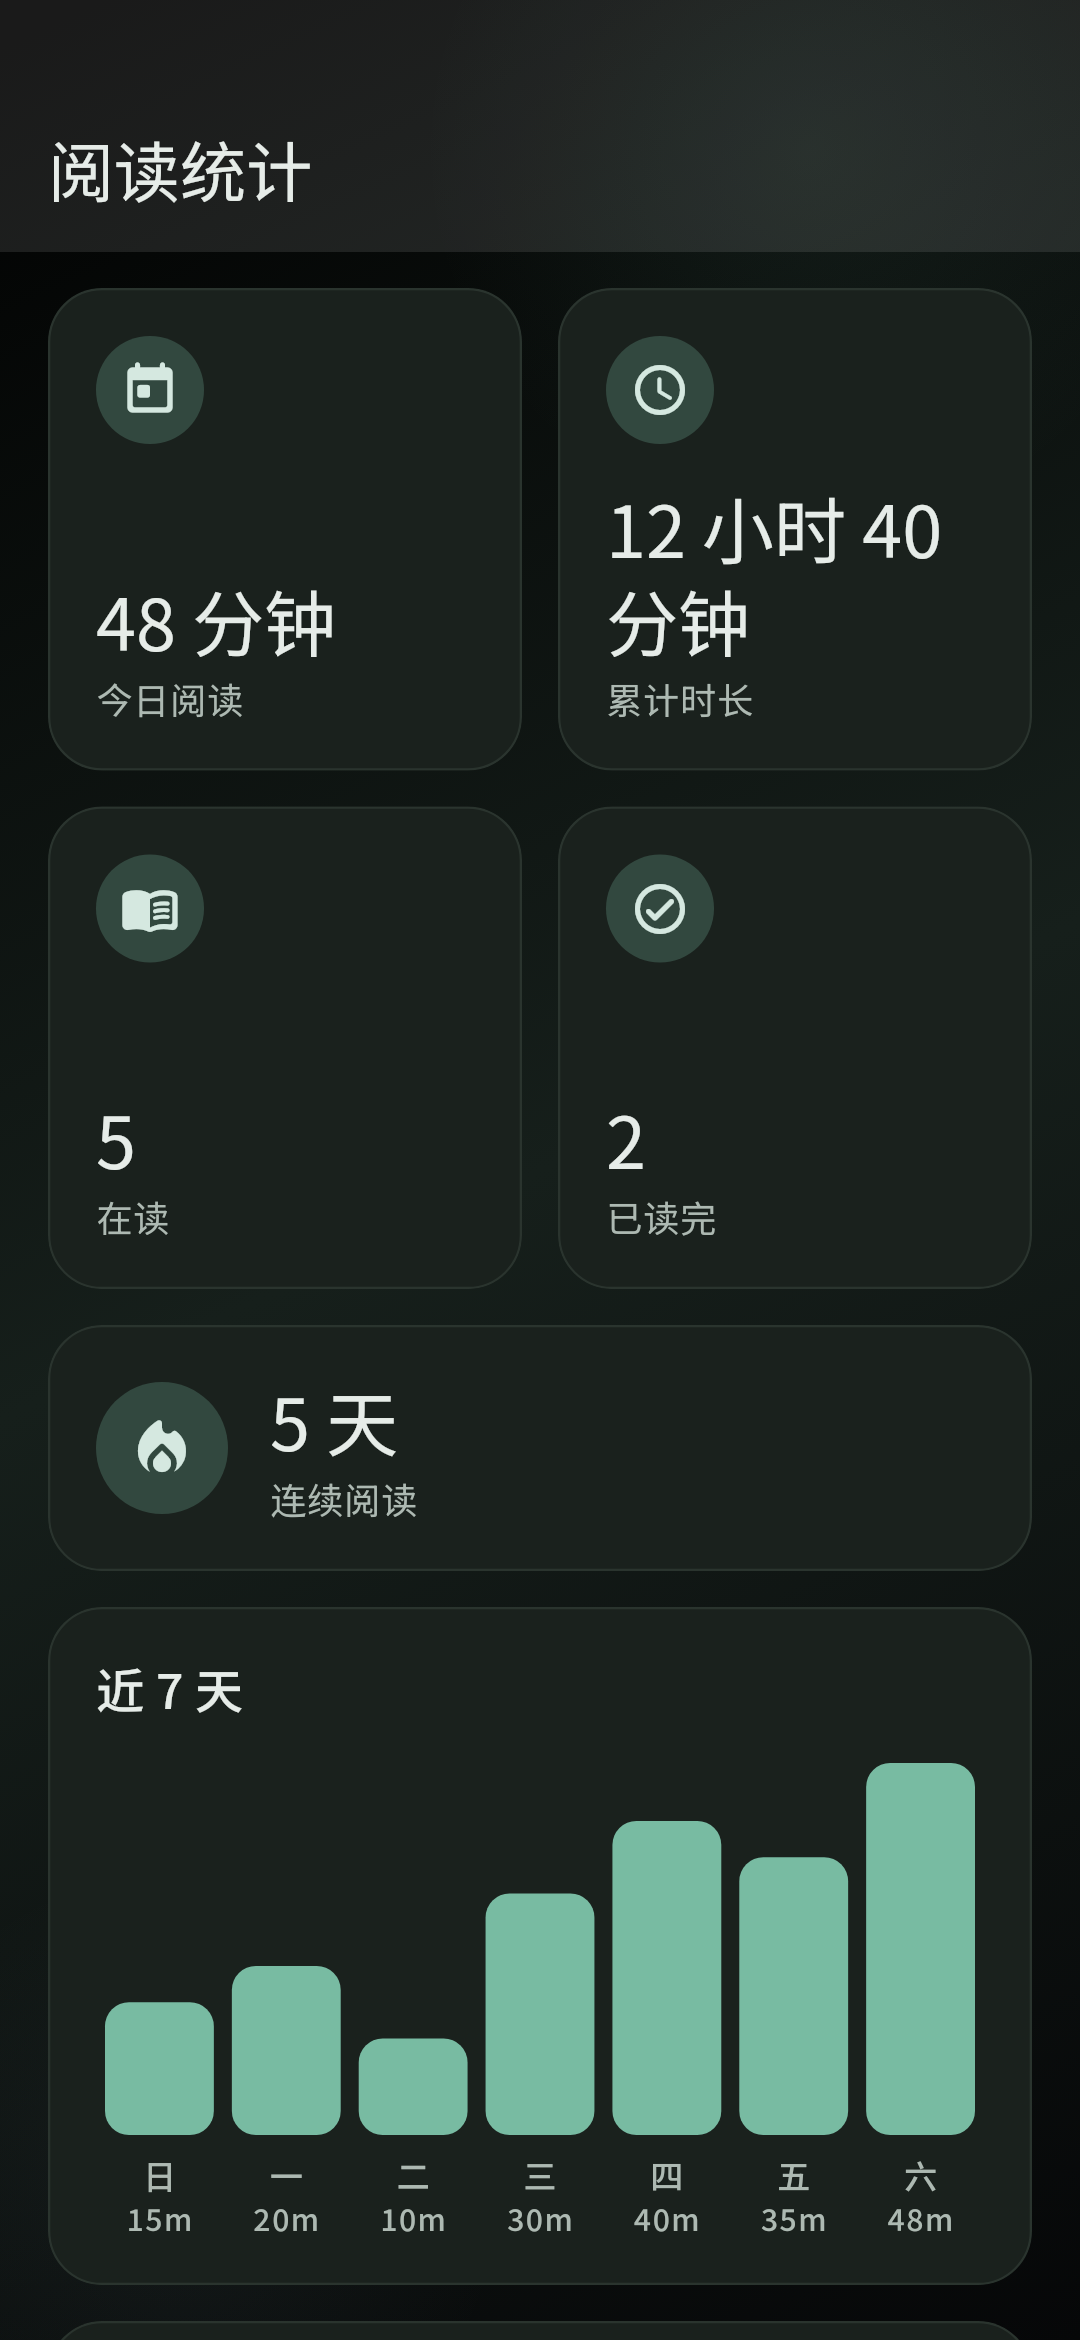
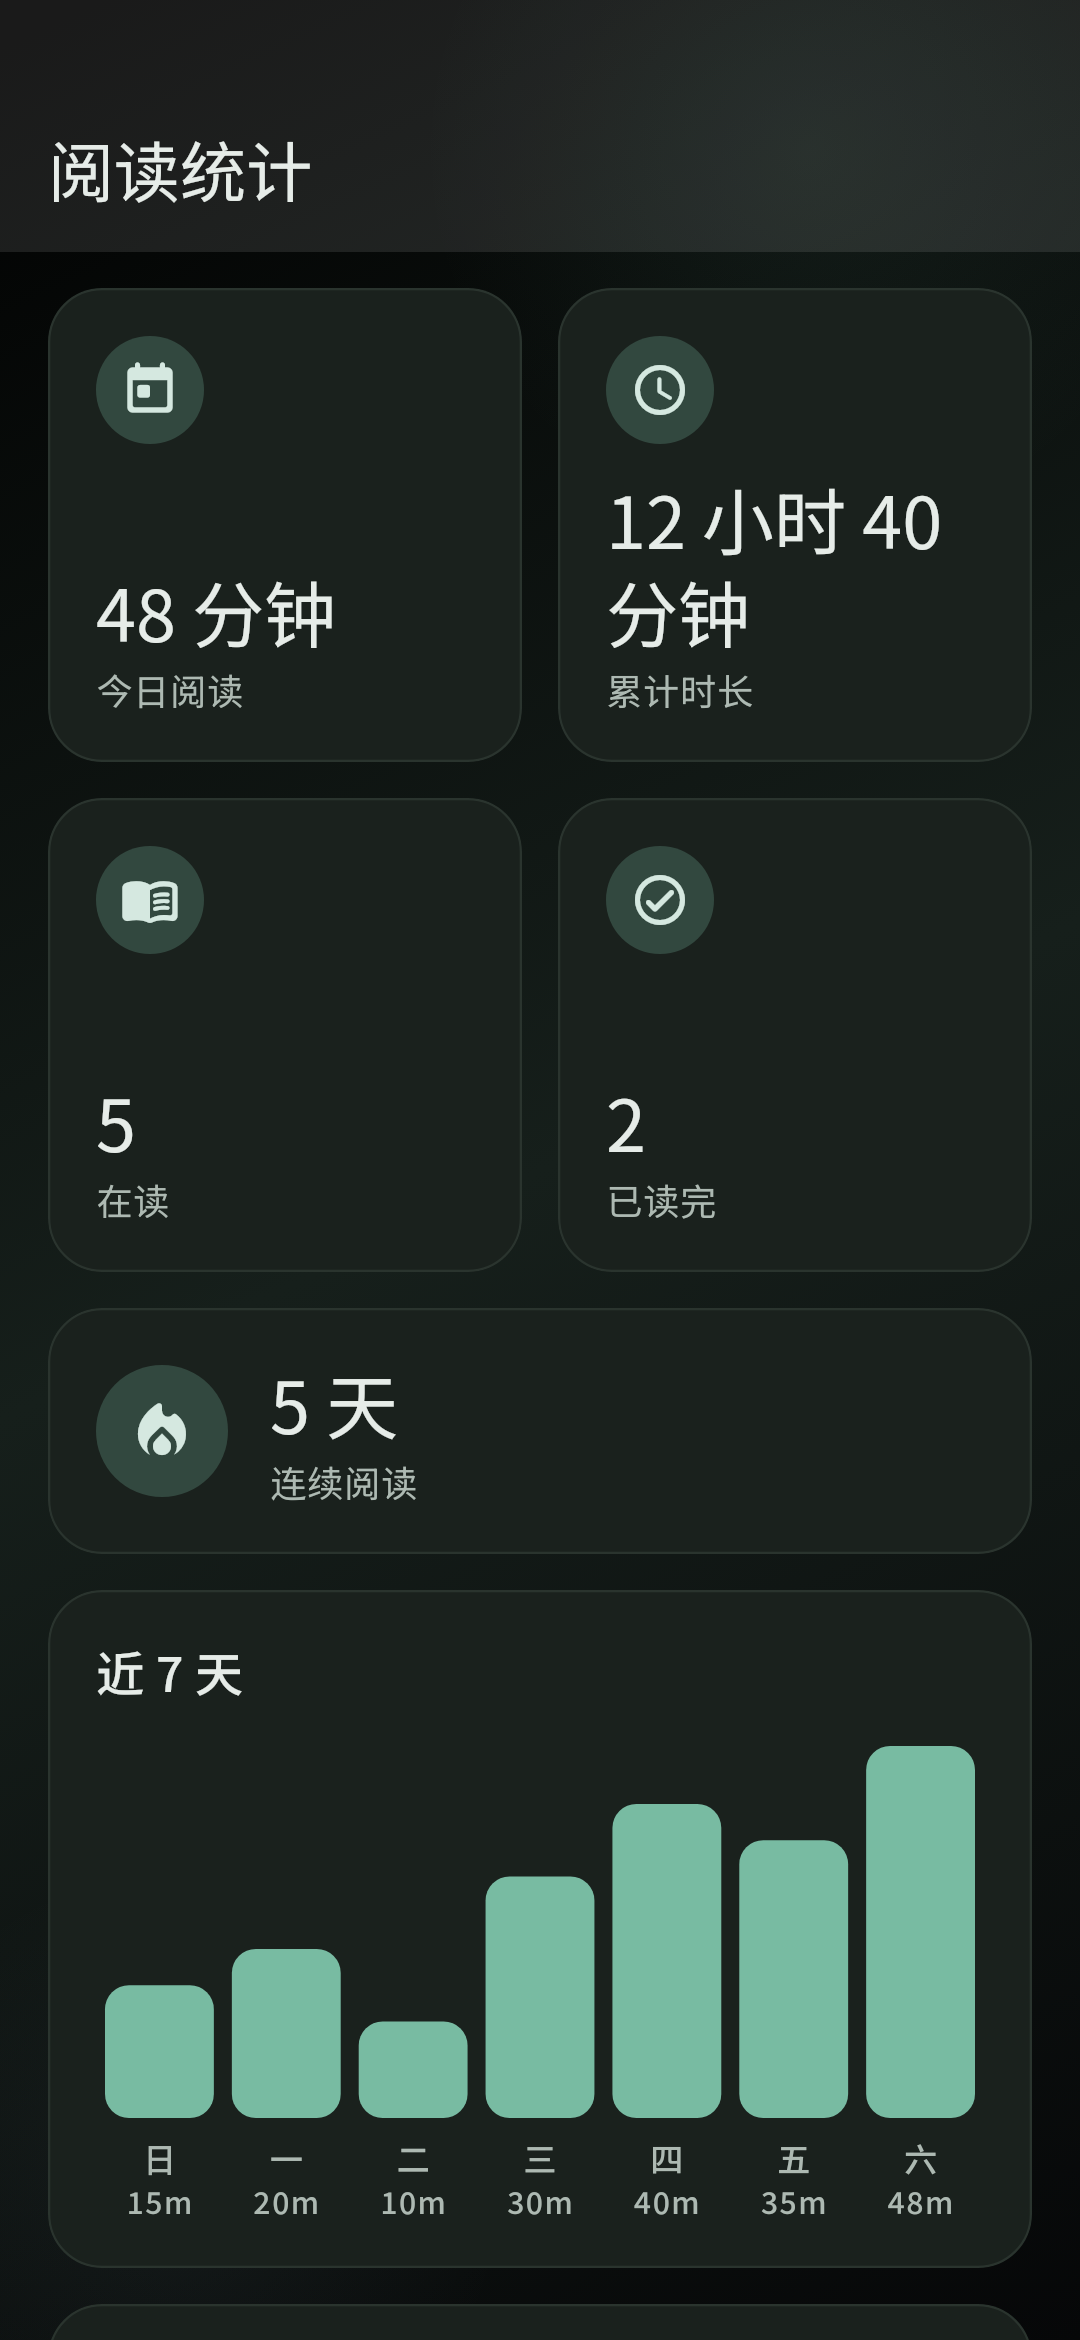
feat: Explore Project Structure

diff --git a/lib/presentation/screens/stats/stats_screen.dart b/lib/presentation/screens/stats/stats_screen.dart
@@ -8,20 +8,6 @@ import '../../widgets/glass_scaffold_bg.dart';
 class StatsScreen extends ConsumerWidget {
   const StatsScreen({super.key});
 
-  /// Reserve icon + two lines of value + label so all four tiles match, even
-  /// when「12 小时 40 分钟」wraps while「5」does not.
-  double _statMinHeight(BuildContext context) {
-    final scaler = MediaQuery.textScalerOf(context);
-    final text = Theme.of(context).textTheme;
-    final value = text.headlineSmall;
-    final label = text.bodySmall;
-    return 36 +
-        12 +
-        scaler.scale(value?.fontSize ?? 24) * (value?.height ?? 1.28) * 2 +
-        2 +
-        scaler.scale(label?.fontSize ?? 12) * (label?.height ?? 1.45);
-  }
-
   String _fmt(int seconds, {required bool isZh}) {
     if (seconds < 60) return isZh ? '$seconds 秒' : '${seconds}s';
     final m = seconds ~/ 60;
@@ -49,7 +35,7 @@ class StatsScreen extends ConsumerWidget {
             return ListView(
               padding: const EdgeInsets.fromLTRB(16, 12, 16, 32),
               children: [
-                _statRow(
+                _statGrid([
                   _statCard(
                     context,
                     strings.todayReading,
@@ -62,9 +48,6 @@ class StatsScreen extends ConsumerWidget {
                     _fmt(s.totalSeconds, isZh: isZh),
                     Icons.schedule_rounded,
                   ),
-                ),
-                const SizedBox(height: 12),
-                _statRow(
                   _statCard(
                     context,
                     strings.booksInProgress,
@@ -77,7 +60,7 @@ class StatsScreen extends ConsumerWidget {
                     '${s.booksFinished}',
                     Icons.check_circle_outline_rounded,
                   ),
-                ),
+                ]),
                 const SizedBox(height: 12),
                 SolidCard(
                   padding: const EdgeInsets.all(16),
@@ -197,42 +180,71 @@ class StatsScreen extends ConsumerWidget {
     final theme = Theme.of(context);
     return SolidCard(
       padding: const EdgeInsets.all(16),
-      child: ConstrainedBox(
-        constraints: BoxConstraints(minHeight: _statMinHeight(context)),
-        child: Column(
-          crossAxisAlignment: CrossAxisAlignment.start,
-          children: [
-            _StatMedallion(icon: icon),
-            const Spacer(),
-            Text(
-              value,
-              style: theme.textTheme.headlineSmall,
-              maxLines: 2,
-            ),
-            const SizedBox(height: 2),
-            Text(
-              label,
-              style: theme.textTheme.bodySmall?.copyWith(
-                color: theme.colorScheme.onSurfaceVariant,
+      child: LayoutBuilder(
+        builder: (context, constraints) {
+          return Column(
+            crossAxisAlignment: CrossAxisAlignment.start,
+            children: [
+              _StatMedallion(icon: icon),
+              const SizedBox(height: 8),
+              Expanded(
+                child: Align(
+                  alignment: Alignment.bottomLeft,
+                  child: FittedBox(
+                    fit: BoxFit.scaleDown,
+                    alignment: Alignment.bottomLeft,
+                    child: SizedBox(
+                      width: constraints.maxWidth,
+                      child: Text(
+                        value,
+                        style: theme.textTheme.headlineSmall,
+                        maxLines: 2,
+                      ),
+                    ),
+                  ),
+                ),
               ),
-            ),
-          ],
-        ),
+              const SizedBox(height: 2),
+              Text(
+                label,
+                maxLines: 1,
+                overflow: TextOverflow.ellipsis,
+                style: theme.textTheme.bodySmall?.copyWith(
+                  color: theme.colorScheme.onSurfaceVariant,
+                ),
+              ),
+            ],
+          );
+        },
       ),
     );
   }
 
-  /// Side-by-side tiles must share one height, not centre against each other.
-  Widget _statRow(Widget left, Widget right) {
-    return IntrinsicHeight(
-      child: Row(
-        crossAxisAlignment: CrossAxisAlignment.stretch,
-        children: [
-          Expanded(child: left),
-          const SizedBox(width: 12),
-          Expanded(child: right),
-        ],
-      ),
+  /// Square tiles: 2×2 on phones, a single 4-up row on wide windows. Keeping
+  /// the height tied to the width stops tiles from stretching into long bars.
+  Widget _statGrid(List<Widget> tiles) {
+    return LayoutBuilder(
+      builder: (context, constraints) {
+        const gap = 12.0;
+        final columns = constraints.maxWidth >= 700 ? 4 : 2;
+        final rawSide =
+            (constraints.maxWidth - gap * (columns - 1)) / columns;
+        final side = rawSide > 220 ? 220.0 : rawSide;
+        final gridWidth = side * columns + gap * (columns - 1);
+        return Center(
+          child: SizedBox(
+            width: gridWidth,
+            child: Wrap(
+              spacing: gap,
+              runSpacing: gap,
+              children: [
+                for (final tile in tiles)
+                  SizedBox.square(dimension: side, child: tile),
+              ],
+            ),
+          ),
+        );
+      },
     );
   }
 }
